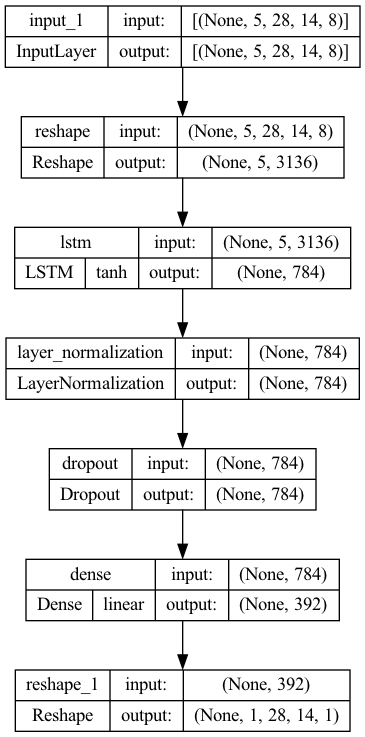
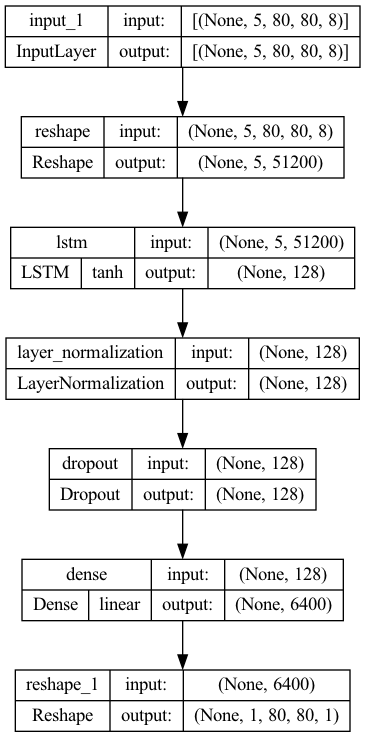
yuh

diff --git a/vis/simple_plot.py b/vis/simple_plot.py
@@ -15,10 +15,17 @@ import yaml
 
 sys.path.append(os.getcwd())
 from ml.ml_utils import ParseModelName
+from misc.misc_utils import GetBoxCoords
+from vis.plotting_utils import ShowYearMonth
 #====================================================================
-model_name = 'XGBRF_reg=WA_f=1_In=OFTUVXYD_Out=O'
+model_name = 'XGBRF_reg=SL_f=1_In=OFTUVXYD_Out=O'
 
-date_idx = 0
+date_idx = 77
+
+font = {'weight' : 'bold',
+        'size'   : 22}
+
+plt.rc('font', **font)
 #====================================================================
 with open('config.yml', 'r') as c:
     config = yaml.load(c, Loader=yaml.FullLoader)
@@ -65,20 +72,74 @@ for file in files:
             print(" >> Found:", os.path.join(os.path.join(model_pred_path, 'Data'), file))
 
 #====================================================================
+''' Get lat/lon and world map '''
+
+world = 69
 try:
     world = gpd.read_file("/Users/joshuamiller/Documents/Lancaster/Data/ne_110m_land/ne_110m_land.shp")
 except fiona.errors.DriverError:
     world = gpd.read_file("/content/drive/MyDrive/Colab_Notebooks/Data/ne_110m_land/ne_110m_land.shp")
     
+boxes_dict = GetBoxCoords('data_utils/data_utils_config.yml')
+
+min_lat = boxes_dict[param_dict['REGION']][3] + 0.25
+max_lat = boxes_dict[param_dict['REGION']][1] - 0.25
+min_lon = boxes_dict[param_dict['REGION']][0] + 0.5
+max_lon = boxes_dict[param_dict['REGION']][2] - 0.5
+
 lat = 69
 lon = 69
 
-
-
-#====================================================================
-
-
-
-
+lat = np.tile(np.arange(max_lat, min_lat-0.5, -0.5).reshape(-1, 1), (1, int(max_lon - min_lon+1)))
+lon = np.tile(np.arange(min_lon, max_lon+1, 1).reshape(1, -1), (int((max_lat - min_lat)*2)+1, 1))
 
 #====================================================================
+''' Plot map '''
+norm = Normalize(vmin=0, vmax=max(y_pred.ravel()))
+
+fig_map, ax_map = plt.subplots(1,1, dpi=100)
+fig_map.set_size_inches(6, 6)
+
+map = ax_map.scatter(x=lon, y=lat, c=y_pred[date_idx], s=150, cmap='bwr', norm=norm)
+
+world.plot(ax=ax_map, facecolor='none', edgecolor='black', linewidth=.5, alpha=1)
+
+divider = make_axes_locatable(ax_map)
+cax = divider.append_axes("right", size="5%", pad=0.05)
+plt.colorbar(map, cax=cax)
+
+ax_map.set_xlim(min_lon-1, max_lon+1)
+ax_map.set_ylim(min_lat-1, max_lat+1)
+#ax_map.set_title(dates.iloc[date_idx]['Days since 1970/1/1'])
+ax_map.yaxis.set_label_position("right")
+ax_map.yaxis.tick_right()
+
+fig_map.tight_layout()
+#====================================================================
+''' Plot timeseries '''
+
+fig_time, ax_time = plt.subplots(1,1, dpi=100)
+fig_time.set_size_inches(10, 1)
+
+raw_ozone_mean = np.mean(data, axis=(1, 2))
+y_pred_mean    = np.mean(y_pred, axis=(1, 2))
+
+time_axis = [datetime.strptime(date, '%Y-%m-%d') for date in dates['Days since 1970/1/1']]
+
+ax_time.scatter(time_axis, raw_ozone_mean, s=15,color='black', marker='x', label='Data')
+ax_time.scatter(time_axis, y_pred_mean, s=20, facecolors='none', edgecolors='blue', marker='o', label='Prediction')
+
+ax_time.yaxis.set_label_position("right")
+ax_time.yaxis.tick_right()
+
+ShowYearMonth(ax_time, time_axis, start_line_idx=150, fontsize=22)
+#====================================================================
+plt.show()
+
+fig_map.savefig(os.path.join('/Users/joshuamiller/Documents/Lancaster/Figs', 
+                              'map_'+model_name+'_'+dates.iloc[date_idx]['Days since 1970/1/1']+'.pdf'),
+                bbox_inches='tight', pad_inches=0)
+
+fig_time.savefig(os.path.join('/Users/joshuamiller/Documents/Lancaster/Figs', 
+                              'time_'+model_name+'_'+dates.iloc[date_idx]['Days since 1970/1/1']+'.pdf'),
+                bbox_inches='tight', pad_inches=0)

diff --git a/ml/lstm.py b/ml/lstm.py
@@ -33,8 +33,8 @@ def MakeLSTM(config_path,
     # Outer lstms
     x = Reshape(target_shape=(x_data_shape[1], np.prod(x_data_shape[2:])))(input_layer)
     
-    x = LSTM(units=int(x.shape[-1] / 4),
-               return_sequences=False)(x)
+    x = LSTM(units=256,
+             return_sequences=False)(x)
     x = LayerNormalization()(x)
     x = Dropout(rate=0.1)(x)
    
@@ -52,17 +52,17 @@ def MakeLSTM(config_path,
     return model
 
 #====================================================================
-# x = np.random.random((200, 5, 80, 80, 8))
-# y = np.random.random((200, 1, 80, 80, 1))
+x = np.random.random((200, 5, 80, 80, 8))
+y = np.random.random((200, 1, 80, 80, 1))
 
-# model = MakeLSTM('config.yml', x.shape, y.shape)
+model = MakeLSTM('config.yml', x.shape, y.shape)
 
-# model.compile(loss=keras.losses.MeanSquaredError(reduction="sum_over_batch_size", 
-#                                                  name="MSE"),
-#               optimizer=keras.optimizers.Adam(learning_rate=1e-3))
+model.compile(loss=keras.losses.MeanSquaredError(reduction="sum_over_batch_size", 
+                                                 name="MSE"),
+              optimizer=keras.optimizers.Adam(learning_rate=1e-3))
 
-# history = model.fit(x=x,
-#                     y=y,
-#                     batch_size=10,
-#                     epochs=10,
-#                     verbose=1)
+history = model.fit(x=x,
+                    y=y,
+                    batch_size=10,
+                    epochs=10,
+                    verbose=1)

diff --git a/vis/plotting_utils.py b/vis/plotting_utils.py
@@ -110,7 +110,7 @@ def format_date_2(x, pos):
     else:
         return ''
 #====================================================================
-def ShowYearMonth(ax, dates, start_date=datetime(1970, 1, 1), fontsize=12, method=0, rotation=0):
+def ShowYearMonth(ax, dates, start_date=datetime(1970, 1, 1), fontsize=12, method=0, rotation=0, start_line_idx=0):
     if not (type(dates[0])==datetime):
         dates = np.asarray([start_date + timedelta(days=int(d)) for d in dates])
 
@@ -123,7 +123,7 @@ def ShowYearMonth(ax, dates, start_date=datetime(1970, 1, 1), fontsize=12, metho
 
     ax.tick_params(axis='x', rotation=rotation, labelsize=fontsize)
     #ax.grid(axis='x')
-    for year in range(dates[366].year, dates[-1].year + 1):
+    for year in range(dates[start_line_idx].year, dates[-1].year + 1):
         january = mdates.date2num(datetime(year, 1, 1))
         ax.axvline(x=january, color='gray', linestyle=':')
 #====================================================================

diff --git a/ml/train_test_naive_rf.py b/ml/train_test_naive_rf.py
@@ -179,9 +179,9 @@ def TestNaiveRF(config_path, data_config_path, model_name, model_pred_path=None)
     print("____________________________________________________________")
     # print('UNSCALED OZONE', np.shape(raw_ozone), raw_ozone)
     # print("+++++++++++++++++++++++++++++++")
-    # print('UNSCALED LON', np.shape(lon), lon)
-    # print("+++++++++++++++++++++++++++++++")
-    # print("UNSCALED LAT", np.shape(lat), lat)
+    print('UNSCALED LON', np.shape(lon), lon)
+    print("+++++++++++++++++++++++++++++++")
+    print("UNSCALED LAT", np.shape(lat), lat)
     # print("+++++++++++++++++++++++++++++++")
     # print("UNSCALED TIME", np.shape(time), time)
     #----------------------------------------------------------------
